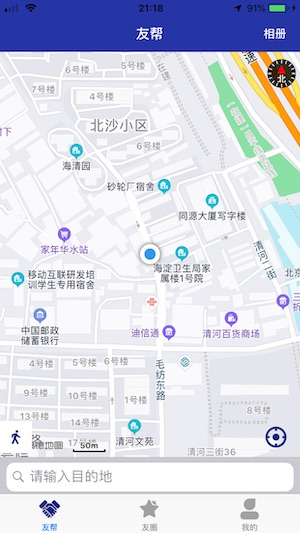
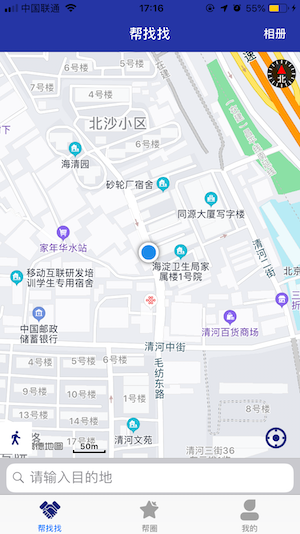
8888

diff --git a/chuxingzhuli/cxzlyinsi.html b/chuxingzhuli/cxzlyinsi.html
@@ -2,7 +2,7 @@
     <head>
         <meta http-equiv="Content-Type" content="text/html; charset=utf-8">
             <meta http-equiv="Content-Style-Type" content="text/css">
-                <title>友帮官网</title>
+                <title>帮找找官网</title>
                 
                 </head>
     <Style>
@@ -35,48 +35,48 @@ position:fixed;
         
         <h2>隐私声明</h2>
         <hr>
-        <p>友帮认可并重视用户的隐私。因此，友帮致力于确保用户了解其个人信息的使用方式，并且保证这 些信息的安全。此隐私策略适用于友帮通过显示此隐私策略的网站、移动应用、产品和服务（包括可能 由友帮离线提供的产品和服务）收集的信息。此隐私策略适用于友帮当前提供的所有友帮产品和服务。</p>
-        <p>除非此隐私策略第 2 节、第 6 节、第 7 节和第 16 节另有规定，否则未经您同意， 友帮不会与第三方共享您的任何与个人、团队和项目有关的信息。</p>
-        <p>访问友帮的网站，或者使用或购买友帮提供的产品和服务，即表示您接受此隐私策略所述惯例，并同意友帮按照此隐私策略所述方式使用您的信息。</p>
-        <h3>第一条：友帮收集的信息</h3><p>友帮可能向您收集有关您的身份、您在友帮上创建/加入的团队信息，以及您对友帮产品的个人 喜好方面的信息。我们通常可能收集的个人信息包括：姓名、电子邮件地址、电话号码、IP 地址；团队信息包括：公司/团队名称、Logo（或商标、企业标识）、公司/团队介绍、公司/团队通讯地址、电话 号码、服务使用状态的相关信息，以及您在购买过程中可能会涉及到的帐户信息。</p>
-        <p>友帮可能会采用多种不同方式来接收和收集您的个人信息。这些方式可能包括：</p>
+        <p>帮找找认可并重视用户的隐私。因此，帮找找致力于确保用户了解其个人信息的使用方式，并且保证这 些信息的安全。此隐私策略适用于帮找找通过显示此隐私策略的网站、移动应用、产品和服务（包括可能 由帮找找离线提供的产品和服务）收集的信息。此隐私策略适用于帮找找当前提供的所有帮找找产品和服务。</p>
+        <p>除非此隐私策略第 2 节、第 6 节、第 7 节和第 16 节另有规定，否则未经您同意， 帮找找不会与第三方共享您的任何与个人、团队和项目有关的信息。</p>
+        <p>访问帮找找的网站，或者使用或购买帮找找提供的产品和服务，即表示您接受此隐私策略所述惯例，并同意帮找找按照此隐私策略所述方式使用您的信息。</p>
+        <h3>第一条：帮找找收集的信息</h3><p>帮找找可能向您收集有关您的身份、您在帮找找上创建/加入的团队信息，以及您对帮找找产品的个人 喜好方面的信息。我们通常可能收集的个人信息包括：姓名、电子邮件地址、电话号码、IP 地址；团队信息包括：公司/团队名称、Logo（或商标、企业标识）、公司/团队介绍、公司/团队通讯地址、电话 号码、服务使用状态的相关信息，以及您在购买过程中可能会涉及到的帐户信息。</p>
+        <p>帮找找可能会采用多种不同方式来接收和收集您的个人信息。这些方式可能包括：</p>
         <p class="font-18 color-333">1. 来自您的信件</p>
         <p class="height-24">您给我们发送电子邮件或写信时，可能会在邮件中提供您的公司/团队信息、您的姓名、联系详细信息以及其他个人信息。</p>
         <p class="font-18 color-333">2. 用户支持</p>
         <p class="height-24">您在打电话或发电子邮件给我们请求产品方面的技术帮助或索取有关我们产品的信息时，可能向我们提供企业/团队和个人信息。</p>
         <p class="font-18 color-333">3. 产品注册</p>
-        <p class="height-24">注册友帮产品时，系统会要求您提供信息，以便我们将您记录为友帮产品的所有者，从而有助于我们为您提供服务和信息。</p>
+        <p class="height-24">注册帮找找产品时，系统会要求您提供信息，以便我们将您记录为帮找找产品的所有者，从而有助于我们为您提供服务和信息。</p>
         <p class="font-18 color-333">4. 购买</p>
-        <p class="height-24">如果您希望通过我们的在线支付系统订购友帮产品，我们将需要足够的信息才能完成您的订购， 这些信息包括您企业/团队的银行账户信息或个人的信用卡信息。</p>
-        <h3>第二条：友帮收集信息的用途</h3><p>友帮可能将您的个人信息用于以下用途：</p>
+        <p class="height-24">如果您希望通过我们的在线支付系统订购帮找找产品，我们将需要足够的信息才能完成您的订购， 这些信息包括您企业/团队的银行账户信息或个人的信用卡信息。</p>
+        <h3>第二条：帮找找收集信息的用途</h3><p>帮找找可能将您的个人信息用于以下用途：</p>
         <p class="font-18 color-333">1. 产品注册</p>
-        <p class="height-24">您注册时所提供的信息将用于创建您的友帮团队和项目，并且在您联系友帮用户服务部门时， 这些信息还将协助友帮为您提供支持。友帮 还将使用这些信息来通知您有关您可能感兴趣的任何升级、新产品、促销或其他信息。</p>
+        <p class="height-24">您注册时所提供的信息将用于创建您的帮找找团队和项目，并且在您联系帮找找用户服务部门时， 这些信息还将协助帮找找为您提供支持。帮找找 还将使用这些信息来通知您有关您可能感兴趣的任何升级、新产品、促销或其他信息。</p>
         <p class="font-18 color-333">2. 产品的使用</p>
-        <p class="height-24">友帮可能将产品使用中收集的信息用于：定期验证您对产品的使用权利； 向您发送新产品/新功能升级的通知前，确认您是否正在使用该产品/功能的较早版本或者是否会对您使用友帮有所帮助； 以及，从友帮接收您请求获取的产品内部消息。</p>
+        <p class="height-24">帮找找可能将产品使用中收集的信息用于：定期验证您对产品的使用权利； 向您发送新产品/新功能升级的通知前，确认您是否正在使用该产品/功能的较早版本或者是否会对您使用帮找找有所帮助； 以及，从帮找找接收您请求获取的产品内部消息。</p>
         <p class="font-18 color-333">3. 产品购买</p>
-        <p class="height-24">如果您通过友帮的在线支付系统购买产品，友帮 将使用您的信息来处理付款并将产品购买信息发送给您。</p>
+        <p class="height-24">如果您通过帮找找的在线支付系统购买产品，帮找找 将使用您的信息来处理付款并将产品购买信息发送给您。</p>
         <p class="font-18 color-333">4. 内部分析</p>
-        <p class="height-24">我们可能会使用您提供给我们的信息进行内部统计和分析，从而评估并增强您对友帮网站的体验， 包括通过识别您的喜好和购买意向，进行营销以及与运营和开发相关的活动。</p>
-        <h3>第三条：自动收集的信息</h3><p>无论何时，只要您通过友帮进入我们的网站或访问任何在线信息，我们的 Web 服务器就会自动收集和汇总有关您的访问的信息 （以下简称“自动信息”）。自动信息可能包括相关网站的 URL 或域、浏览器类型、操作系统、您所访问的页面以及访问日期和时间。</p>
-        <h3>第四条：用户文件</h3><p>友帮允许您存储、发送、接收、编辑、同步、共享或者以其他方式组织或管理文件和文件夹 （包括这些文件夹中存储的任何信息或数据）（以下统称“用户文件”）。 我们可能获得您在友帮上储存的所有用户文件的大小，因为我们需要了解您对友帮的实际使用情况， 但我们绝不会获取、储存、共享您的任何用户文件。</p>
+        <p class="height-24">我们可能会使用您提供给我们的信息进行内部统计和分析，从而评估并增强您对帮找找网站的体验， 包括通过识别您的喜好和购买意向，进行营销以及与运营和开发相关的活动。</p>
+        <h3>第三条：自动收集的信息</h3><p>无论何时，只要您通过帮找找进入我们的网站或访问任何在线信息，我们的 Web 服务器就会自动收集和汇总有关您的访问的信息 （以下简称“自动信息”）。自动信息可能包括相关网站的 URL 或域、浏览器类型、操作系统、您所访问的页面以及访问日期和时间。</p>
+        <h3>第四条：用户文件</h3><p>帮找找允许您存储、发送、接收、编辑、同步、共享或者以其他方式组织或管理文件和文件夹 （包括这些文件夹中存储的任何信息或数据）（以下统称“用户文件”）。 我们可能获得您在帮找找上储存的所有用户文件的大小，因为我们需要了解您对帮找找的实际使用情况， 但我们绝不会获取、储存、共享您的任何用户文件。</p>
         <h3>第五条：与第三方共享信息</h3>
-        <p> 除非第 5 条、第 6 条另有特别规定，否则未经您同意，友帮 不会与第三方共享任何个人信息（例如，通过登录您的用户帐户并选择某选项）。 </p>
+        <p> 除非第 5 条、第 6 条另有特别规定，否则未经您同意，帮找找 不会与第三方共享任何个人信息（例如，通过登录您的用户帐户并选择某选项）。 </p>
         <p class="font-18 color-333">1. 内部运营</p>
         <p class="height-24">我们可能与独立审计师共享您向我们提供的信息，实现与我们的内部业务运营相关的收入审计目的，前提是此类审计公司必须遵守此隐私策略。</p>
         <p class="font-18 color-333">2. 服务提供商</p>
-        <p class="height-24">我们有时会雇用其他公司代表我们提供服务，比如处理交易、邮件的处理和寄送、提供用户支持、 托管网站或者针对我们的产品或服务进行统计分析。我们有时需要将您企业/团队和个人的信息与其他公司共享， 以便这些公司能够提供适用的服务。我们仅向这些公司提供其向您提供服务所需的信息， 但未授权这些公司将您的信息用于友帮之外的任何其他用途。</p>
-        <h3>第六条：法定披露</h3><p>虽然我们会尽最大努力保护用户隐私，但当我们有理由相信只有公开个人信息才能遵循现行司法程序、 法院指令或其他法律程序或者保护友帮、友帮用户或第三方的权利、财产或安全时，我们可能披露个人信息。</p>
+        <p class="height-24">我们有时会雇用其他公司代表我们提供服务，比如处理交易、邮件的处理和寄送、提供用户支持、 托管网站或者针对我们的产品或服务进行统计分析。我们有时需要将您企业/团队和个人的信息与其他公司共享， 以便这些公司能够提供适用的服务。我们仅向这些公司提供其向您提供服务所需的信息， 但未授权这些公司将您的信息用于帮找找之外的任何其他用途。</p>
+        <h3>第六条：法定披露</h3><p>虽然我们会尽最大努力保护用户隐私，但当我们有理由相信只有公开个人信息才能遵循现行司法程序、 法院指令或其他法律程序或者保护帮找找、帮找找用户或第三方的权利、财产或安全时，我们可能披露个人信息。</p>
         <h3>第七条：安全</h3><p>我们会采取合理的实际及电子手段以及规程保障措施来保护您的企业/团队和个人信息。 虽然通过因特网信息传输数据并非100% 安全，但我们已经采取并将继续采取商业范畴内合理的努力来确保您的个人信息得到保护。</p>
-        <h3>第八条：加密</h3><p>友帮所有的数据都基于SSL/HTTPs传输，保证数据畅通且安全。严格的数据备份制度， 保证每小时、每天和每周都会执行严格的数据备份工作。</p>
+        <h3>第八条：加密</h3><p>帮找找所有的数据都基于SSL/HTTPs传输，保证数据畅通且安全。严格的数据备份制度， 保证每小时、每天和每周都会执行严格的数据备份工作。</p>
         <h3>第九条：COOKIE</h3><p>Cookie是仅限文本的信息字符串，网站会将这些字符串传输到计算机硬盘上浏览器的 Cookie 文件中， 以便网站能够记住您的身份信息以及其他详细信息。Cookie 可能由网站设置或来源自第三方，比如广告商。Cookie 本身不用于或意图用于从用户的计算机读取任何信息 （Cookie 本身的内容除外）。Cookie 只是网站所使用的最初将其放置在您硬盘上的标识符。同一台服务器可以检索到 Cookie 信息的实际内容， 从而标识计算机并进而根据主服务器上存储的信息自定义、跟踪或控制站点的使用情况。</p>
-        <p>我们可能会在友帮网站上使用 Cookie。使用 Cookie，我们便能进行自动访问和使用我们网站的数据输入功能，以及在网站（如果有）上根据您的喜好或兴趣定制网站， 或者自定义促销或营销活动时，关联您所进行的购买活动的在线订购信息。此外，我们还可以通过 Cookie 跟踪我们网站的使用情况，从而确定哪些功能有用或受欢迎，哪些功能并不能帮助我们有效地改进和更新我们的服务。 大多数网络浏览器都会向您发出有关使用 Cookie 的提醒，或者完全拒绝接受 Cookie。您可以通过修改浏览器设置， 接受或拒绝 Cookie。但是，如果禁用 Cookie，您就不能使用此网站的各项交互功能。</p>
-        <h3>第十条：链接</h3><p>我们网站上可能会提供某些链接， 这些链接可能指向我们选择提供共同品牌产品的第三方或者我们认为有助于您更好的使用友帮服务的其他网站。 第三方网站不受此隐私策略的约束，友帮 不对这些网站处理您的个人信息的相关做法进行任何说明。建议您在开始访问这些网站之前查阅其隐私策略，确定其隐私保护惯例。</p>
-        <h3>第十一条：有害信息的过滤和删除</h3><p>友帮禁止用户创建和储存一切有害信息，包括：</p>
+        <p>我们可能会在帮找找网站上使用 Cookie。使用 Cookie，我们便能进行自动访问和使用我们网站的数据输入功能，以及在网站（如果有）上根据您的喜好或兴趣定制网站， 或者自定义促销或营销活动时，关联您所进行的购买活动的在线订购信息。此外，我们还可以通过 Cookie 跟踪我们网站的使用情况，从而确定哪些功能有用或受欢迎，哪些功能并不能帮助我们有效地改进和更新我们的服务。 大多数网络浏览器都会向您发出有关使用 Cookie 的提醒，或者完全拒绝接受 Cookie。您可以通过修改浏览器设置， 接受或拒绝 Cookie。但是，如果禁用 Cookie，您就不能使用此网站的各项交互功能。</p>
+        <h3>第十条：链接</h3><p>我们网站上可能会提供某些链接， 这些链接可能指向我们选择提供共同品牌产品的第三方或者我们认为有助于您更好的使用帮找找服务的其他网站。 第三方网站不受此隐私策略的约束，帮找找 不对这些网站处理您的个人信息的相关做法进行任何说明。建议您在开始访问这些网站之前查阅其隐私策略，确定其隐私保护惯例。</p>
+        <h3>第十一条：有害信息的过滤和删除</h3><p>帮找找禁止用户创建和储存一切有害信息，包括：</p>
         <p>1. 违反中国宪法确定的基本原则的；</p><p>2. 危害国家安全，泄露国家秘密，颠覆国家政权，破坏国家统一的；</p><p>3. 损害国家荣誉和利益，攻击党和政府的；</p><p>4. 煽动民族仇恨、民族歧视，破坏民族团结的；</p><p>5. 破坏国家、地区间友好关系的；</p><p>6. 违背中华民族传统美德、社会公德、论理道德、以及社会主义精神文明的；</p><p>7. 破坏国家宗教政策，宣扬邪教和封建迷信的；</p><p>8. 散布谣言或不实消息，扰乱社会秩序 ，破坏社会稳定的；</p><p>9. 煽动、组织、教唆恐怖活动、非法集会、结社、游行、示威、聚众扰乱社会秩序的；</p><p>10. 散布淫秽、色情、赌博、暴力、恐怖或者教唆犯罪的；</p><p>11. 侮辱或诽谤他人，侵害他人合法权益的；</p><p>12. 侵犯他人肖像权、姓名权、名誉权、隐私权或其他人身权利的；</p><p>13. 使用漫骂、辱骂、中伤、恐吓、诅咒等不文明语言的；</p><p>14. 以非法民间组织名义活动的；</p><p>15. 侵犯他人著作权、信息网络传播权等合法权益的；</p><p>16. 含有法律、行政法规禁止的其他内容的。</p>
-        <p>友帮将针对以上信息制定过滤和屏蔽机制，如用户在友帮创建项目或储存文件时不能履行和遵守协议中的规定， 友帮有权对违反协议的用户做出关闭帐户处理，同时保留依法追究当事人法律责任的权利。 此外，友帮在采取移除等相应措施后不为此向原发布人承担违约责任或其他法律责任。 友帮依据本协议约定获得处理违法违规内容的权利，该权利不构成友帮的义务或承诺， 友帮不能保证及时发现违法行为或进行相应处理。</p>
-        <h3>第十三条：业务转让</h3><p>友帮收集的信息将被视作一项资产。如果友帮、任何附属公司、部门或部分资产被另一家公司收购， 则此类信息可能成为被转让资产之一。如果情况如此，收购方公司只能按照此隐私策略（或者向您收集信息时有效的任何后续策略）使用您的信息。 请注意，转让后提交或收集的信息可能必须遵守收购方公司所采用的新隐私策略。</p>
-        <h3>第十四条：国际传输</h3><p>您的信息可能被传送到或存储在您所在国家/地区、省/市/自治区或其他政府管辖区域以外的地方， 这些地方的隐私法律对您的个人信息的保护程度可能低于您所在的管辖区域。如果您位于中华人民共和国以外， 您应知悉，友帮可能将您的个人信息传输到中国并在中国进行处理。提交此类信息，即表示您同意此隐私策略， 进而表示您同意进行此类传输。</p>
-        <p>我们始终致力于改善我们的业务和运营。因此，我们的策略将不断完善。 鉴于此，友帮保留不时修改此隐私策略的权利。对此策略的更改将发布在友帮网站上。 我们欢迎您不时访问我们的隐私策略页面，来查看最新隐私策略。如果我们对此隐私策略进行实质性更改， 扩展了我们使用您的公司/团队和个人信息的权利，我们将通过电子邮件或者在我们网站上的显著位置告知您并征求您的同意。</p>
+        <p>帮找找将针对以上信息制定过滤和屏蔽机制，如用户在帮找找创建项目或储存文件时不能履行和遵守协议中的规定， 帮找找有权对违反协议的用户做出关闭帐户处理，同时保留依法追究当事人法律责任的权利。 此外，帮找找在采取移除等相应措施后不为此向原发布人承担违约责任或其他法律责任。 帮找找依据本协议约定获得处理违法违规内容的权利，该权利不构成帮找找的义务或承诺， 帮找找不能保证及时发现违法行为或进行相应处理。</p>
+        <h3>第十三条：业务转让</h3><p>帮找找收集的信息将被视作一项资产。如果帮找找、任何附属公司、部门或部分资产被另一家公司收购， 则此类信息可能成为被转让资产之一。如果情况如此，收购方公司只能按照此隐私策略（或者向您收集信息时有效的任何后续策略）使用您的信息。 请注意，转让后提交或收集的信息可能必须遵守收购方公司所采用的新隐私策略。</p>
+        <h3>第十四条：国际传输</h3><p>您的信息可能被传送到或存储在您所在国家/地区、省/市/自治区或其他政府管辖区域以外的地方， 这些地方的隐私法律对您的个人信息的保护程度可能低于您所在的管辖区域。如果您位于中华人民共和国以外， 您应知悉，帮找找可能将您的个人信息传输到中国并在中国进行处理。提交此类信息，即表示您同意此隐私策略， 进而表示您同意进行此类传输。</p>
+        <p>我们始终致力于改善我们的业务和运营。因此，我们的策略将不断完善。 鉴于此，帮找找保留不时修改此隐私策略的权利。对此策略的更改将发布在帮找找网站上。 我们欢迎您不时访问我们的隐私策略页面，来查看最新隐私策略。如果我们对此隐私策略进行实质性更改， 扩展了我们使用您的公司/团队和个人信息的权利，我们将通过电子邮件或者在我们网站上的显著位置告知您并征求您的同意。</p>
         <h3>第十五条：与我们联系</h3><p>请将您对您的信息的任何访问请求、信息修改请求或有关此策略的问题发送至以下电子邮件地址：3114351775@qq.com。电话:18610086653</p>
         </div>
     </body>

diff --git a/chuxingzhuli/cxzl.html b/chuxingzhuli/cxzl.html
@@ -2,7 +2,7 @@
     <head>
         <meta http-equiv="Content-Type" content="text/html; charset=utf-8">
             <meta http-equiv="Content-Style-Type" content="text/css">
-                <title>友帮官网</title>
+                <title>帮找找官网</title>
                 
                 </head>
     <Style>
@@ -28,7 +28,7 @@ position:fixed;
         </Style>
     <body>
     	<div id="header" height="200" >
-            <img src="logo.png" width="80" height="80"/><h1 style="margin-bottom:0;  float: left;"  ><font style="color: #081369" >友帮</font> </h1>
+            <img src="logo.png" width="80" height="80"/><h1 style="margin-bottom:0;  float: left;"  ><font style="color: #081369" >帮找找</font> </h1>
 
 		</div>
             <hr>
@@ -42,8 +42,8 @@ position:fixed;
 
         </div>
         <div style="text-align: center;">
-        	<h3>关于友帮</h3>
-			<p>友帮app包含出行导航，本地相册加密，操作简单。登录：首页左侧按钮登录-登录之后再次点击进入个人信息页面,相册：创建本地相册，可以进行加密相册，相册只存于本地不会上传</p>
+        	<h3>关于帮找找</h3>
+			<p>帮找找app包含出行导航，本地相册加密，操作简单。登录：首页左侧按钮登录-登录之后再次点击进入个人信息页面,相册：创建本地相册，可以进行加密相册，相册只存于本地不会上传</p>
 			<p>我们的宗旨是五湖四海皆朋友，有朋互帮。</p>
         </div>
         <hr>
@@ -52,7 +52,7 @@ position:fixed;
         
         Email：3114351775@qq.com
         <br>
-        Phone:18610086653
+        Phone：18610086653
         <br>
 			<a href="cxzlyinsi.html">隐私声明</a>
         </div>
